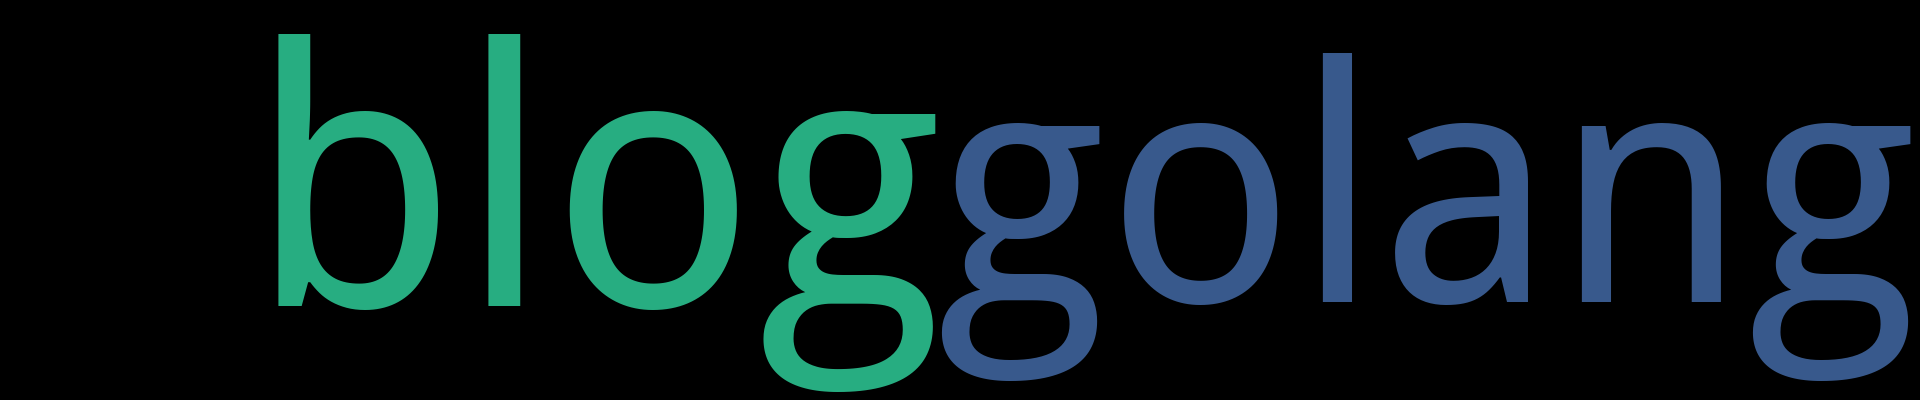
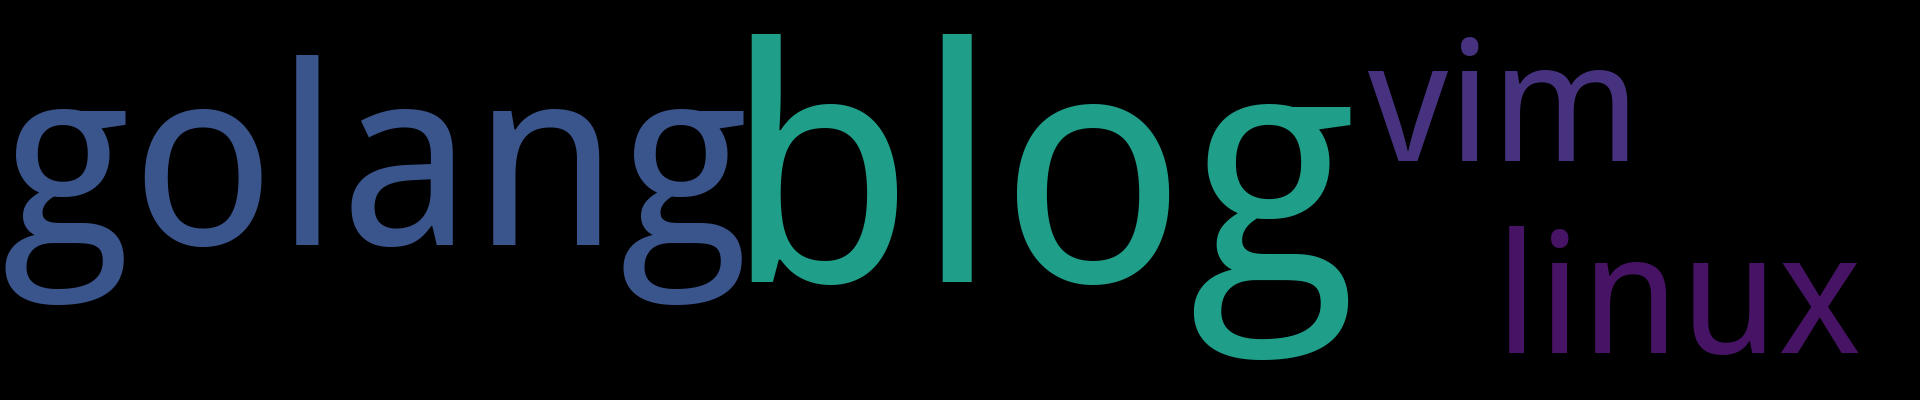
Update from Github Action

diff --git a/README.md b/README.md
@@ -1,7 +1,7 @@
 
 <p align='center'>
     <img src="https://badgen.net/github/issues/Zaire404//docs"/>
-    <img src="https://badgen.net/badge/last-commit/2025-02-15 12:52:26"/>
+    <img src="https://badgen.net/badge/last-commit/2025-02-15 13:41:50"/>
     <img src="https://badgen.net/github/forks/Zaire404//docs"/>
     <img src="https://badgen.net/github/stars/Zaire404//docs"/>
     <img src="https://badgen.net/github/watchers/Zaire404//docs"/>
@@ -13,8 +13,10 @@
 </summary>  
 
 <details open>
-<summary>blog	[2篇]</summary>
+<summary>blog	[4篇]</summary>
 
+- 2025-02-14 [go Context详解](https://github.com/Zaire404/docs/issues/4) 
+- 2025-02-14 [Vim 常用操作](https://github.com/Zaire404/docs/issues/3) 
 - 2025-02-14 [go 性能优化](https://github.com/Zaire404/docs/issues/2) 
 - 2025-02-14 [go 写题常用数据结构和函数](https://github.com/Zaire404/docs/issues/1) 
 
@@ -22,10 +24,27 @@
 </details>
             
 <details open>
-<summary>golang	[2篇]</summary>
+<summary>golang	[3篇]</summary>
 
+- 2025-02-14 [go Context详解](https://github.com/Zaire404/docs/issues/4) 
 - 2025-02-14 [go 性能优化](https://github.com/Zaire404/docs/issues/2) 
 - 2025-02-14 [go 写题常用数据结构和函数](https://github.com/Zaire404/docs/issues/1) 
+
+
+</details>
+            
+<details open>
+<summary>linux	[1篇]</summary>
+
+- 2025-02-14 [Vim 常用操作](https://github.com/Zaire404/docs/issues/3) 
+
+
+</details>
+            
+<details open>
+<summary>vim	[1篇]</summary>
+
+- 2025-02-14 [Vim 常用操作](https://github.com/Zaire404/docs/issues/3) 
 
 
 </details>
